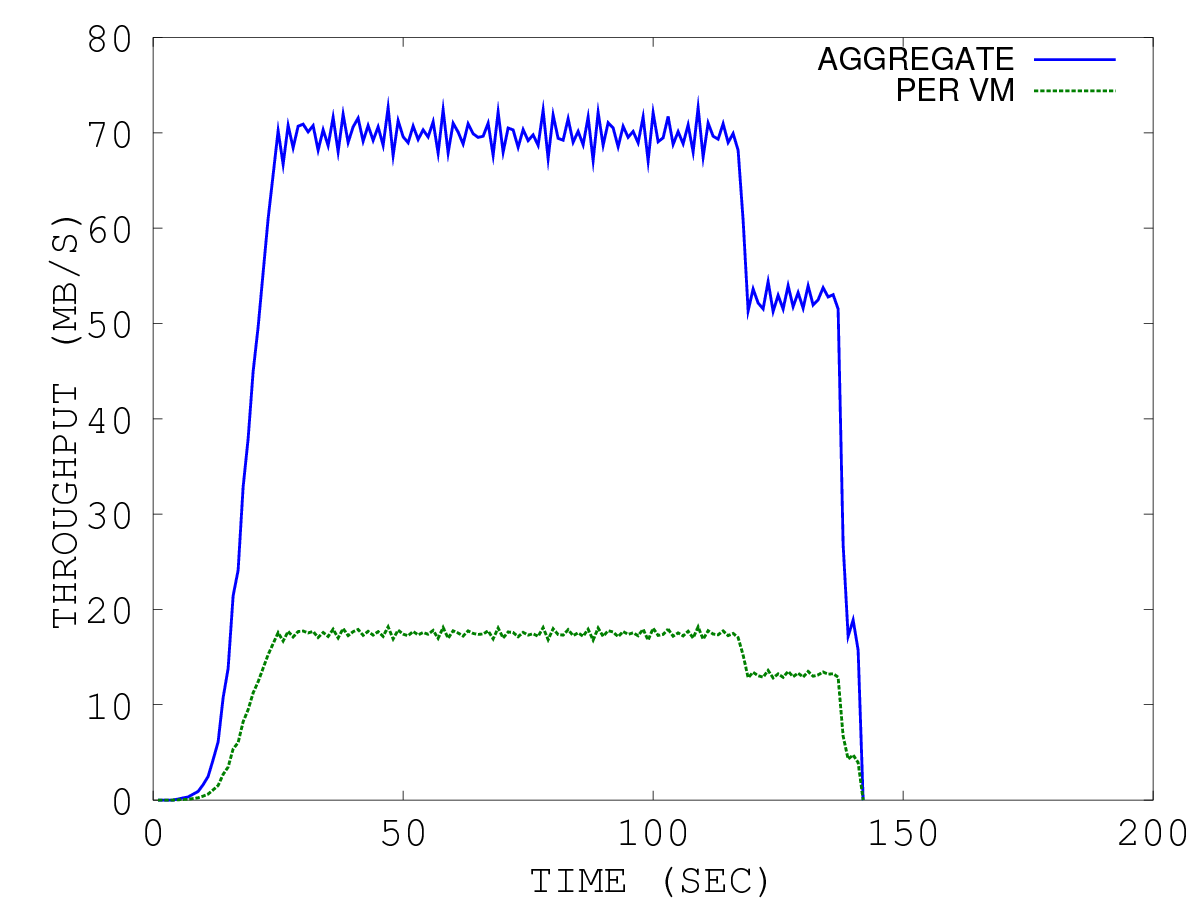
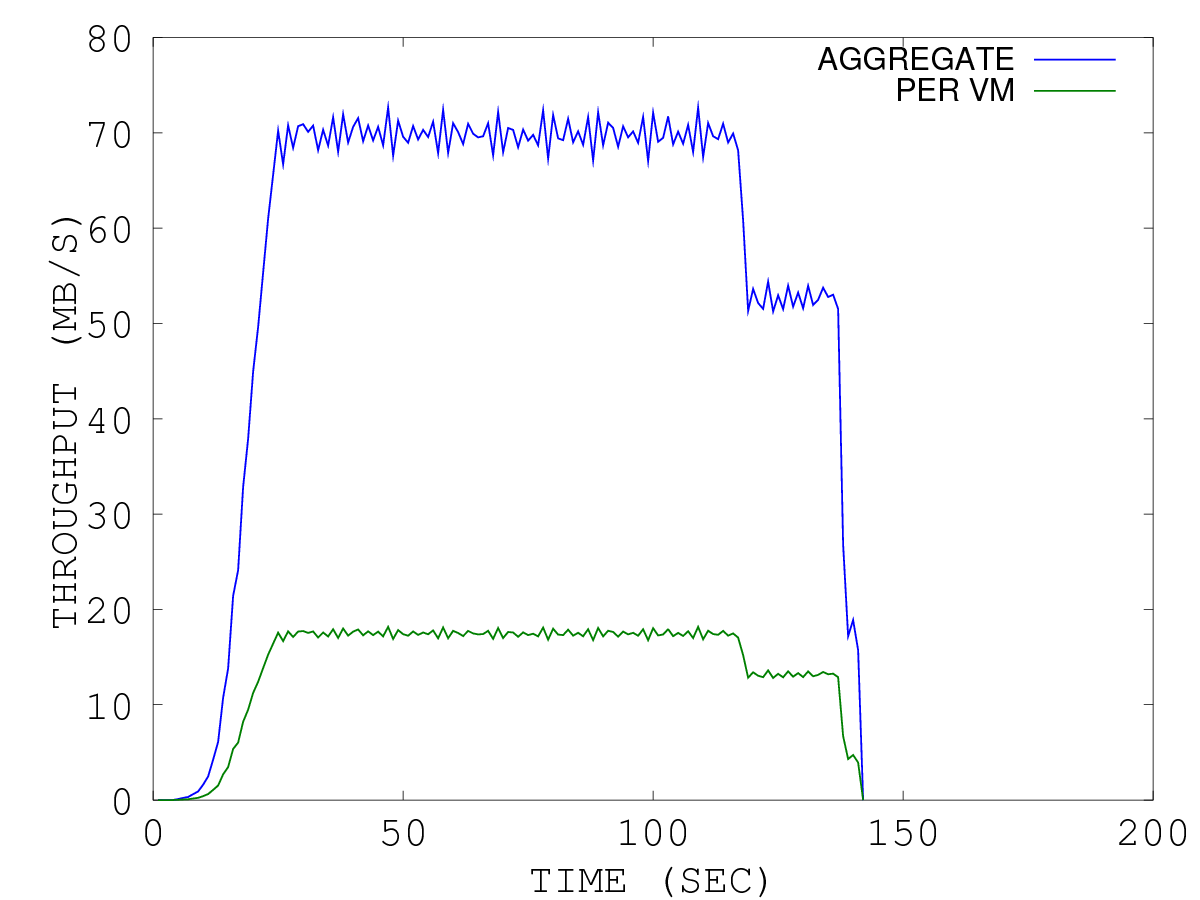
all

diff --git a/plot/plotnet.m b/plot/plotnet.m
@@ -15,7 +15,7 @@ sendcol = 9;
 %fontsize = 18;
 fontsize = 20; % too close distance between axis and axis labels
 
-linewidth = 5;
+linewidth = 3;
 
 %prefix = "rand-6-r2"
 data = strcat(prefix, postfix)
@@ -31,12 +31,15 @@ A = csvread(prefix, startrow, recvcol);
 figure;
 output = data
 x = 1:1:length(A);
-plot(x, A(:,1)/1000000, x, A(:,2)/1000000, '--', 'LineWidth', linewidth);
+pl = plot(x, A(:,1)/1000000, x, A(:,2)/1000000, '-.-', 'LineWidth', linewidth);
 %plot(x, A(:,1)/1000000, x, A(:,2)/1000000, '--rs');
 %plot(x, A(:,1)/1000000, x, A(:,2)/1000000, '-.*');
 xlabel('TIME (SEC)');
 ylabel('THROUGHPUT (MB/S)');
 legend('RECEIVE', 'SEND');
+
+set(pl(1), 'LineWidth', linewidth);
+set(pl(2), 'LineWidth', linewidth);
 
 set(gca,'FontSize',fontsize)
 set(findall(gcf,'type','text'),'FontSize',fontsize)
@@ -49,11 +52,14 @@ saveas (1, strcat(output, ".emf"));
 figure;
 output = strcat(prefix, ".recv");
 x = 1:1:length(A);
-plot(x, A(:,1)/1000000, x, A(:,1)/(1000000*N), '--', 'LineWidth', linewidth);
+pl = plot(x, A(:,1)/1000000, x, A(:,1)/(1000000*N), '--', 'LineWidth', linewidth);
 %plot(x, A(:,1)/1000000, x, A(:,1)/(1000000*N), ':');
 xlabel('TIME (SEC)');
 ylabel('THROUGHPUT (MB/s)');
 legend('AGGREGATE', 'PER VM');
+
+set(pl(1), 'LineWidth', linewidth);
+set(pl(2), 'LineWidth', linewidth);
 
 set(get(gca, 'YLabel'), 'Position', [-1, 5, 0]);
 %set(get(gca, 'YLabel'), 'Units', 'Normalized', 'Position', [-0.1, 0.5, 0]);
@@ -71,7 +77,7 @@ saveas (1, strcat(output, ".emf"));
 figure;
 output = strcat(prefix, ".send");
 x = 1:1:length(A);
-pl = plot(x, A(:,2)/1000000, x, 'LineWidth', linewidth, A(:,2)/(1000000*N), '--', 'LineWidth', linewidth);
+pl = plot(x, A(:,2)/1000000, x, 'LineWidth', linewidth, A(:,2)/(1000000*N), '- -', 'LineWidth', linewidth);
 %plot(x, A(:,2)/1000000);
 %plot(x, A(:,2)/1000000, '-.*');
 xlabel('TIME (SEC)');
